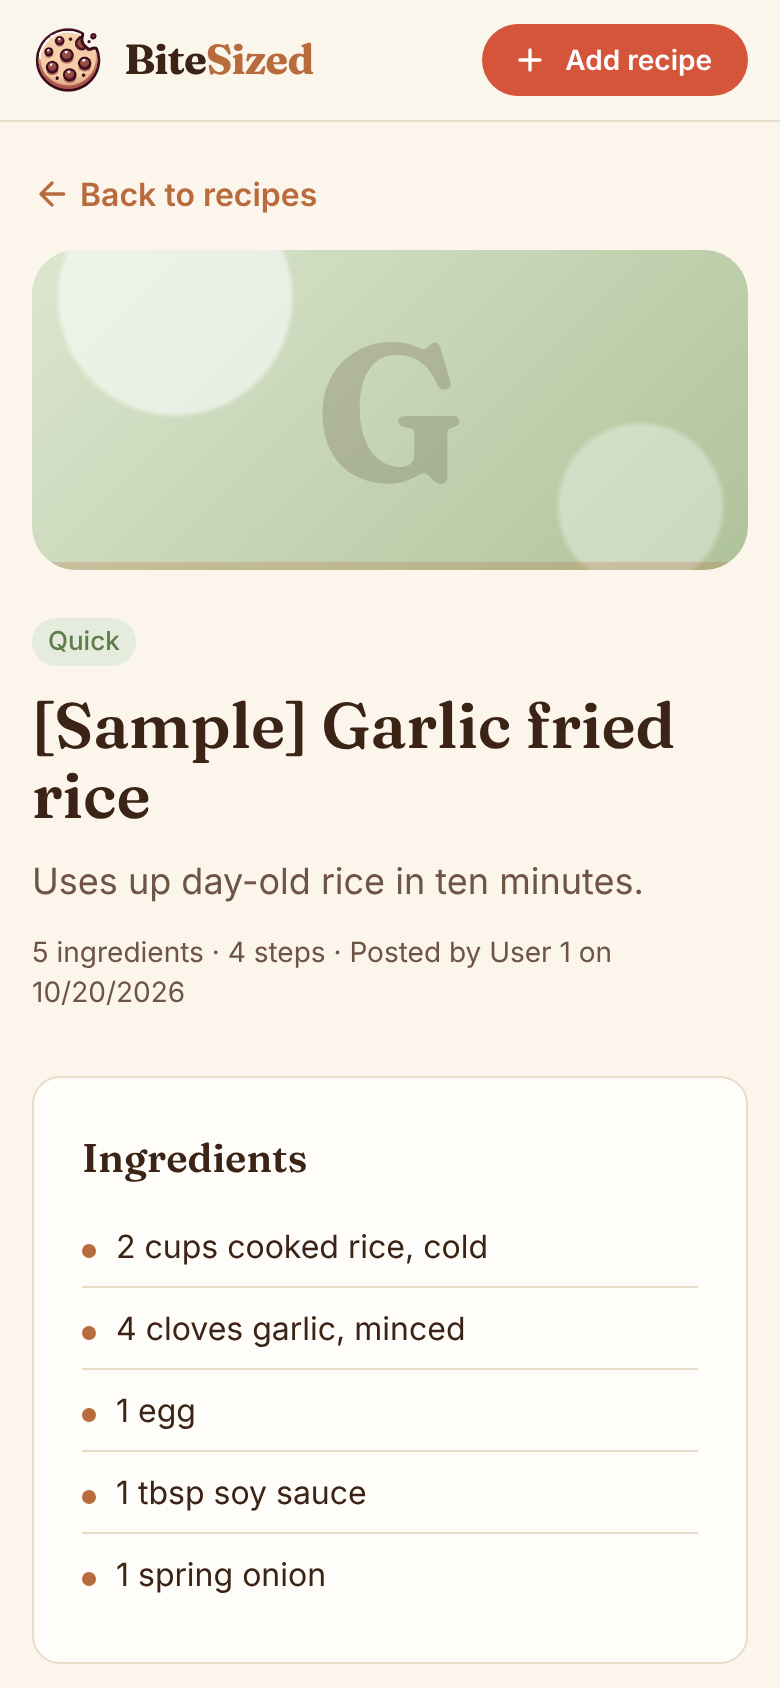
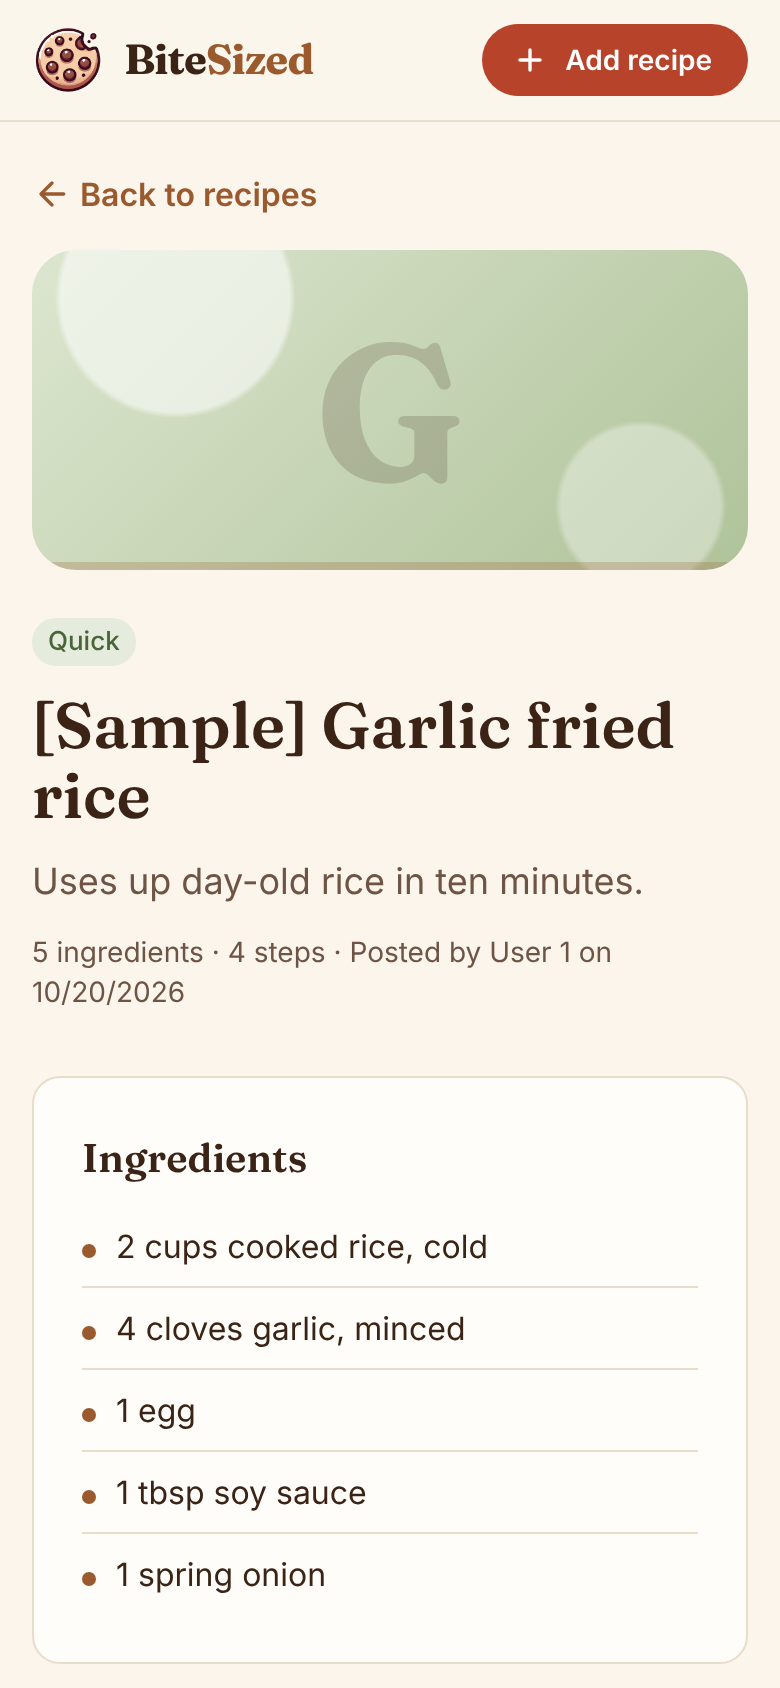
[GH-11] Fix review findings: AA contrast, quickstart database step, Storybook theme
Darken the brand, tomato, and herb colours so all text meets 4.5:1, and
test it. Add the create-database step to the README quickstart, drop
unverified version numbers, give Storybook the app theme and fonts, and
fix singular counts on the recipe page.

Claude-Session: https://claude.ai/code/session_019gz916dhm3V8XG9ZpfN5Bu

diff --git a/frontend/src/branding.test.ts b/frontend/src/branding.test.ts
@@ -32,3 +32,29 @@ test('recipe art uses the first letter of the title, skipping a [Sample] tag', (
   expect(monogram('🍳 Eggs')).toBe('🍳');
   expect(monogram('')).toBe('?');
 });
+
+// WCAG 2 contrast ratio between two #RRGGBB colours.
+function contrast(a: string, b: string): number {
+  const lum = (hex: string) => {
+    const [r, g, bl] = [1, 3, 5].map((i) => {
+      const c = parseInt(hex.slice(i, i + 2), 16) / 255;
+      return c <= 0.03928 ? c / 12.92 : ((c + 0.055) / 1.055) ** 2.4;
+    });
+    return 0.2126 * r + 0.7152 * g + 0.0722 * bl;
+  };
+  const [hi, lo] = [lum(a), lum(b)].sort((x, y) => y - x);
+  return (hi + 0.05) / (lo + 0.05);
+}
+
+test.each([
+  ['body text on the page', palette.chocolate, palette.cream],
+  ['secondary text on the page', palette.cocoa, palette.cream],
+  ['secondary text on cards', palette.cocoa, palette.paper],
+  ['links and the brand colour on the page', palette.crust, palette.cream],
+  ['white on primary buttons and step numbers', '#FFFFFF', palette.crust],
+  ['white on the Add recipe button', '#FFFFFF', palette.tomato],
+  ['the tomato overline on the page', palette.tomato, palette.cream],
+  ['tag chip text', palette.herb, palette.herbSoft],
+])('%s meets WCAG AA (4.5:1)', (_, fg, bg) => {
+  expect(contrast(fg, bg)).toBeGreaterThanOrEqual(4.5);
+});

diff --git a/frontend/src/styles/tokens.ts b/frontend/src/styles/tokens.ts
@@ -1,17 +1,18 @@
 // BiteSized design tokens. One source for the MUI theme and the CSS variables.
 // The palette takes its colours from the cookie logo: baked dough, chocolate, and a
-// warm tomato accent, with a herb green for tags.
+// warm tomato accent, with a herb green for tags. Every text colour meets WCAG AA
+// (4.5:1) on the background it is used on; src/branding.test.ts checks this.
 
 export const palette = {
   cream: '#FBF5EC', // page background
   paper: '#FFFDF9', // cards and panels
   dough: '#F1DFC4', // soft fills, image slots
-  crust: '#B86B3C', // primary brand colour
-  crustDark: '#8E4E27',
+  crust: '#9A5A2E', // primary brand colour; 5:1 on cream, and under white text
+  crustDark: '#7A4420',
   chocolate: '#3B2416', // body text
   cocoa: '#6E5444', // secondary text
-  tomato: '#D4553A', // calls to action
-  herb: '#5E7D4A', // tags
+  tomato: '#B8432B', // calls to action; 5.4:1 under white text
+  herb: '#4A6639', // tag text; 5.3:1 on herbSoft
   herbSoft: '#E5ECDD',
   line: '#E8DCCB', // borders
 } as const;

diff --git a/frontend/src/pages/RecipeDetail.tsx b/frontend/src/pages/RecipeDetail.tsx
@@ -2,6 +2,7 @@ import React, { useCallback, useEffect, useState } from 'react';
 import { Alert, Box, Button, Chip, Link, Skeleton, Typography } from '@mui/material';
 import ArrowBackRoundedIcon from '@mui/icons-material/ArrowBackRounded';
 import RecipeArt from '../components/RecipeArt';
+import { plural } from '../components/RecipeCard';
 import { ApiError, ApiRecipe, getRecipe, splitLines } from '../services/recipes';
 
 type State =
@@ -84,7 +85,7 @@ const RecipeDetail = ({ id }: { id: number }) => {
             </Typography>
           )}
           <Typography variant="body2" color="text.secondary" sx={{ mt: 1.5 }}>
-            {ingredients.length} ingredients · {steps.length} steps · Posted by User {r.user_id} on{' '}
+            {plural(ingredients.length, 'ingredient')} · {plural(steps.length, 'step')} · Posted by User {r.user_id} on{' '}
             {new Date(r.created_at).toLocaleDateString()}
           </Typography>
         </Box>

diff --git a/frontend/.storybook/preview.ts b/frontend/.storybook/preview.ts
@@ -1,6 +1,26 @@
+import React from "react";
 import type { Preview } from "@storybook/react";
+import { ThemeProvider } from "@mui/material/styles";
+import CssBaseline from "@mui/material/CssBaseline";
+import GlobalStyles from "@mui/material/GlobalStyles";
+import "@fontsource-variable/fraunces";
+import "@fontsource-variable/inter";
+import "../src/index.css";
+import theme from "../src/styles/theme";
+import { cssVariables } from "../src/styles/tokens";
 
+// Give every story the app's theme, fonts, and --bs-* variables.
 const preview: Preview = {
+  decorators: [
+    (Story) =>
+      React.createElement(
+        ThemeProvider,
+        { theme },
+        React.createElement(CssBaseline),
+        React.createElement(GlobalStyles, { styles: { ":root": cssVariables() } }),
+        React.createElement(Story),
+      ),
+  ],
   parameters: {
     controls: {
       matchers: {

diff --git a/frontend/src/pages/Recipes.tsx b/frontend/src/pages/Recipes.tsx
@@ -8,6 +8,7 @@ import {
   CardContent,
   Grid,
   InputAdornment,
+  Link,
   Skeleton,
   TextField,
   Typography,
@@ -108,7 +109,7 @@ const Recipes = () => {
     body = (
       <EmptyState title="No recipes yet">
         Run <code>go run . -setup-db</code> in the backend to load sample recipes, or{' '}
-        <a href="#/recipes/new">add your own</a>.
+        <Link href="#/recipes/new">add your own</Link>.
       </EmptyState>
     );
   } else {

diff --git a/frontend/src/components/RecipeCard.tsx b/frontend/src/components/RecipeCard.tsx
@@ -16,7 +16,7 @@ interface RecipeCardProps {
   href?: string;
 }
 
-const plural = (n: number, word: string) => `${n} ${word}${n === 1 ? '' : 's'}`;
+export const plural = (n: number, word: string) => `${n} ${word}${n === 1 ? '' : 's'}`;
 
 const RecipeCard: React.FC<RecipeCardProps> = ({
   id,

diff --git a/docs/development.md b/docs/development.md
@@ -2,7 +2,7 @@
 
 ## Full setup
 
-1. Install MySQL 8 or MariaDB 10.11, Go 1.23 or newer, Node.js (tested with 22), and yarn.
+1. Install MySQL or MariaDB, Go 1.23.4 or newer, Node.js (tested with 22), and yarn.
 2. Create an empty database and a user that can use it.
 3. Create `backend/.env` with the database details (or set the same variables in your shell):
 
@@ -29,7 +29,7 @@
 
 Colours, fonts, and corner radii live in `frontend/src/styles/tokens.ts`. The MUI theme (`styles/theme.ts`) reads them, and `App` publishes them as `--bs-*` CSS variables, so plain CSS can use `var(--bs-crust)`. Fonts are self-hosted from `@fontsource-variable` (Fraunces for headings, Inter for text), so the app makes no font requests to third parties.
 
-The icons in `frontend/public/` are made from `src/assets/icons/logo.png`. `social-preview.png` is the 1200 by 630 image for link previews; set `PUBLIC_URL` to the deployed origin at build time so crawlers get an absolute URL.
+The icons in `frontend/public/` and the header mark `src/assets/icons/logo-mark.png` are made from `src/assets/icons/logo.png`: cropped to the cookie, padded to a square, resized, and reduced to 128 colours. `social-preview.png` is the 1200 by 630 image for link previews; set `PUBLIC_URL` to the deployed origin at build time so crawlers get an absolute URL.
 
 ## File structure
 

diff --git a/README.md b/README.md
@@ -25,7 +25,15 @@ BiteSized is a small recipe board. You browse short recipes, narrow them by name
 
 ## Quickstart
 
-You need MySQL 8 or MariaDB 10.11, Go 1.23 or newer, Node.js, and yarn.
+You need MySQL or MariaDB, Go 1.23.4 or newer, Node.js, and yarn. Create an empty database and a user for it first, for example:
+
+```sql
+CREATE DATABASE bitesized;
+CREATE USER 'your_user'@'localhost' IDENTIFIED BY 'your_password';
+GRANT ALL ON bitesized.* TO 'your_user'@'localhost';
+```
+
+Then:
 
 ```bash
 git clone https://github.com/KoalaLyfestyle/BiteSized.git
@@ -79,7 +87,7 @@ The frontend is a Create React App single page app with hash routes (`#/recipes`
 
 Checked in this repo's tests:
 
-- 20 frontend tests (`CI=true yarn test --watchAll=false`) cover the list, filters, recipe page, the post form, and the branding files.
+- 28 frontend tests (`CI=true yarn test --watchAll=false`) cover the list, filters, recipe page, the post form, the branding files, and colour contrast.
 - Go unit tests use `go-sqlmock`. An integration test (`go test -tags integration ./routes/`) runs the recipe and tag flow against a real MySQL or MariaDB database.
 
 Left out on purpose, or not built yet:
